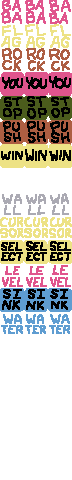
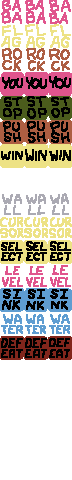
add DEFEAT

Changed region(s): [[0.0, 0.6875, 1.0, 0.75]]

diff --git a/src/eval.rs b/src/eval.rs
@@ -56,6 +56,7 @@ impl<'a> Turn<'a> {
         self.move_select().then(|| self.reparse());
         self.handle_transforms().then(|| self.reparse());
         self.handle_sink().then(|| self.reparse());
+        self.handle_defeats().then(|| self.reparse());
         TurnResult::new(self.check_status(), query_selected(self.grid, &self.rules))
     }
 
@@ -113,10 +114,16 @@ impl<'a> Turn<'a> {
         let sinks = query_sinks(self.grid, &self.rules);
         let mut destroyed = false;
         for sink in sinks {
-            if let Some(pos) = self.grid.find_unit(sink) {
-                self.grid.remove_matching(pos, |unit| unit.id() == sink);
-                destroyed = true;
-            }
+            destroyed |= self.grid.destroy_unit(sink);
+        }
+        destroyed
+    }
+
+    fn handle_defeats(&mut self) -> bool {
+        let defeated = query_defeats(self.grid, &self.rules);
+        let mut destroyed = false;
+        for unit in defeated {
+            destroyed |= self.grid.destroy_unit(unit);
         }
         destroyed
     }
@@ -139,6 +146,16 @@ fn query_sinks(grid: &Grid, rules: &Rules) -> Vec<u64> {
         .filter(|c| c.units().iter().count() > 1)
         .flat_map(Cell::units)
         .map(Unit::id)
+        .collect::<Vec<u64>>()
+}
+
+fn query_defeats(grid: &Grid, rules: &Rules) -> Vec<u64> {
+    grid.cells()
+        .iter()
+        .filter(|c| cell_has(c, rules, Property::Defeat))
+        .flat_map(Cell::units)
+        .filter(|unit| rules.has(unit.noun(), Property::You))
+        .map(|u| u.id())
         .collect::<Vec<u64>>()
 }
 
@@ -428,30 +445,32 @@ mod tests {
             Direction::East,
         );
     }
-}
-
-// TMP
-#[cfg(test)]
-mod tmp {
-    use crate::{
-        eval::Turn,
-        world::{Direction::East, Grid},
-    };
 
     #[test]
-    fn sink_vs_win() {
-        for (name, src) in [
-            ("sink + win", "BA IS YO WT IS SI WT IS WI\nba wt .. .. .. .. .. .. .."),
-            ("win only  ", "BA IS YO WT IS WI .. .. ..\nba wt .. .. .. .. .. .. .."),
-        ] {
-            let mut g = Grid::from_ascii(src);
-            let r = Turn::new(&mut g, East).run();
-            println!(
-                "{name} -> {:?}   board: {}",
-                r.status,
-                g.to_ascii().lines().nth(1).unwrap()
-            );
-        }
+    fn test_defeat() {
+        assert_move_result("BA IS YO RO IS DE ba ro", "BA IS YO RO IS DE .. ro", Direction::East);
+    }
+
+    #[test]
+    fn test_self_defeat() {
+        assert_move_result("BA IS YO BA IS DE ba ..", "BA IS YO BA IS DE .. ..", Direction::East);
+    }
+
+    #[test]
+    fn test_defeat_beats_win() {
+        assert_result(
+            "BA IS YO RO IS DE RO IS WI ba ro",
+            Direction::East,
+            TurnStatus::Continue,
+        );
+    }
+
+    #[test]
+    fn test_defeat_leaves_non_you() {
+        assert_move_result(
+            "BA IS YO RO IS PU WA IS DE ba ro wa",
+            "BA IS YO RO IS PU WA IS DE .. ba ro",
+            Direction::East,
+        );
     }
 }
-// TMP

diff --git a/src/unit.rs b/src/unit.rs
@@ -65,6 +65,7 @@ const UNIT_TYPES: &[UnitTypeData] = &[
     word(Text::Noun(Noun::Level), "LE", 11),
     word(Text::Property(Property::Sink), "SI", 12),
     word(Text::Noun(Noun::Water), "WT", 13),
+    word(Text::Property(Property::Defeat), "DE", 14),
     object(Noun::Baba, "ba", 0, Facing::Directional),
     object(Noun::Flag, "fl", 1, Facing::Fixed),
     object(Noun::Rock, "ro", 2, Facing::Fixed),
@@ -109,6 +110,7 @@ pub enum Property {
     Win,
     Select,
     Sink,
+    Defeat,
 }
 
 #[derive(Clone, Copy, Debug, PartialEq, Eq)]

diff --git a/src/world.rs b/src/world.rs
@@ -157,6 +157,15 @@ impl Grid {
         None
     }
 
+    pub fn destroy_unit(&mut self, id: u64) -> bool {
+        if let Some(pos) = self.find_unit(id) {
+            self.at_mut(pos).units_mut().retain(|u| u.id() != id);
+            true
+        } else {
+            false
+        }
+    }
+
     // moves all units on `from` to `to`, that match `p`
     pub fn move_matching(&mut self, from: Pos, to: Pos, dir: Direction, p: impl Fn(&Unit) -> bool) {
         let mut units = self
